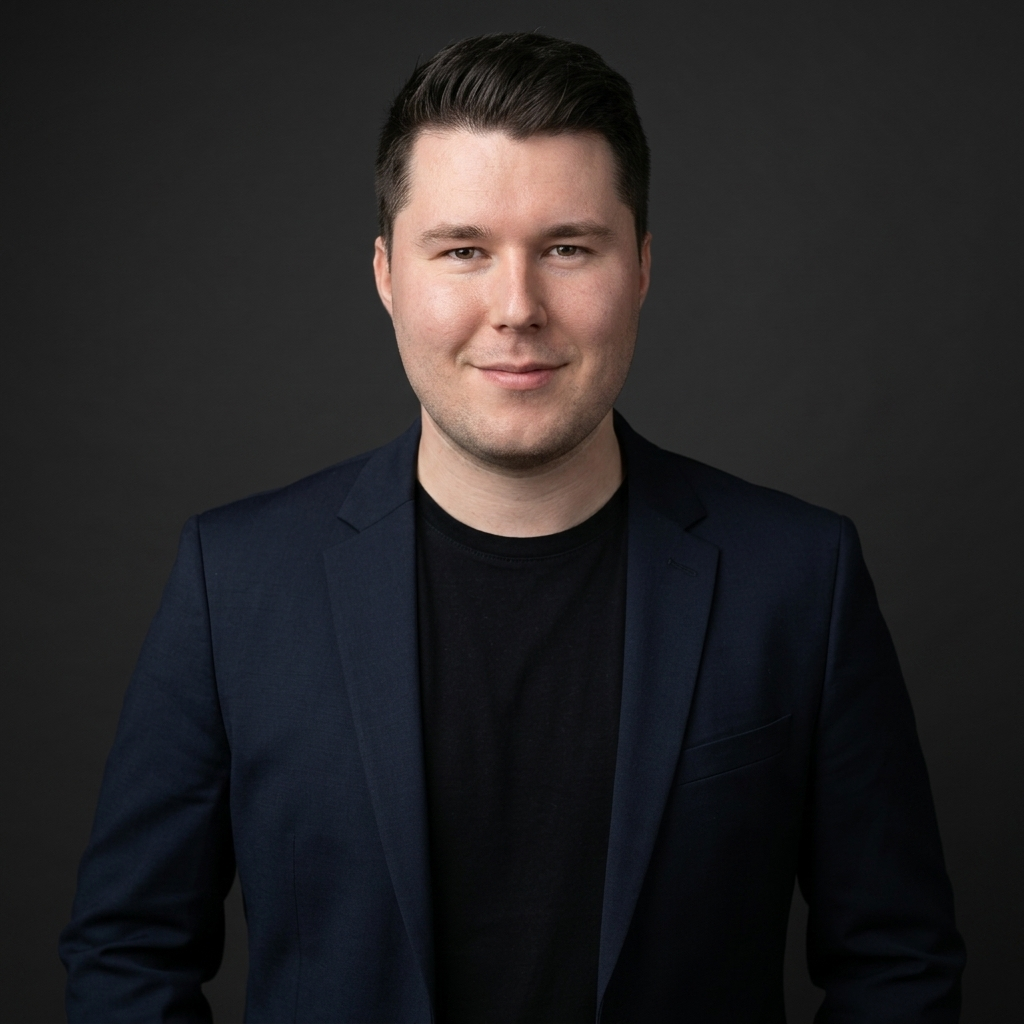
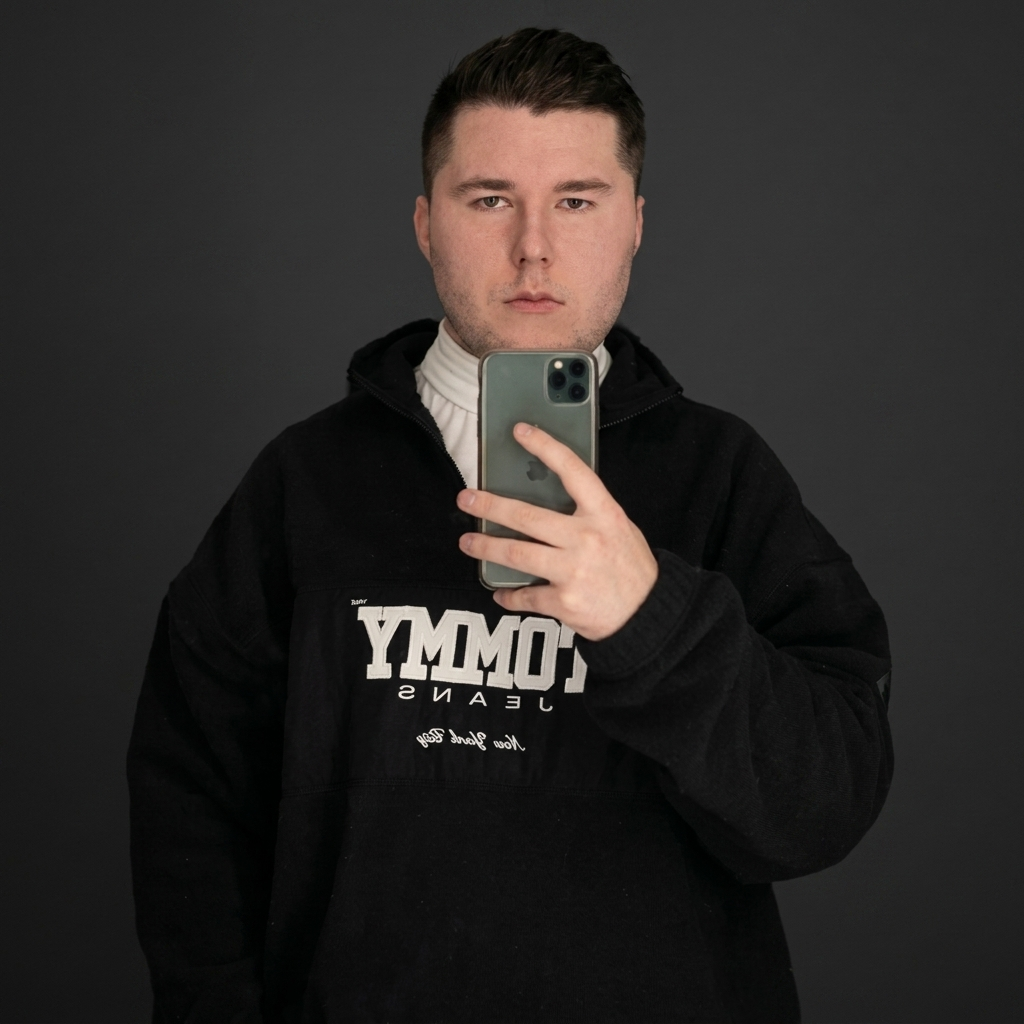
variant2_centered_portrait

diff --git a/src/components/AboutSection.tsx b/src/components/AboutSection.tsx
@@ -70,43 +70,45 @@ export const AboutSection: React.FC = () => {
 
           </div>
 
-          {/* Right Column: Visual Avatar Card */}
-          <div className="lg:col-span-5">
-            <div className="pg-card p-8 rounded-3xl relative overflow-hidden shadow-2xl space-y-6">
+          {/* Right Column: Centered Visual Avatar Portrait Card */}
+          <div className="lg:col-span-5 flex justify-center">
+            <div className="pg-card p-8 rounded-3xl relative overflow-hidden shadow-2xl space-y-6 w-full max-w-md text-center">
               
-              <div className="relative z-10 space-y-4">
-                <div className="w-24 h-24 rounded-2xl overflow-hidden border-2 border-ubuntuOrange-50 shadow-md">
+              <div className="relative z-10 space-y-5 flex flex-col items-center">
+                
+                {/* Beautifully Centered Portrait Image */}
+                <div className="w-36 h-36 sm:w-44 sm:h-44 rounded-full overflow-hidden border-4 border-ubuntuOrange-50 shadow-xl p-1 bg-ubuntuOrange-50/10">
                   <img 
                     src="/avatar.jpg" 
                     alt="Paweł Włodarczyk" 
-                    className="w-full h-full object-cover"
+                    className="w-full h-full object-cover rounded-full"
                   />
                 </div>
 
-                <div>
-                  <h3 className="text-xl font-bold" style={{ color: 'var(--pg-text-primary)' }}>Paweł Włodarczyk</h3>
-                  <p className="text-xs font-mono font-medium text-ubuntuOrange-50">Założyciel &amp; Lead Software Developer</p>
+                <div className="space-y-1">
+                  <h3 className="text-2xl font-bold tracking-tight" style={{ color: 'var(--pg-text-primary)' }}>Paweł Włodarczyk</h3>
+                  <p className="text-xs font-mono font-bold text-ubuntuOrange-50 uppercase tracking-wider">Założyciel &amp; Lead Software Developer</p>
                 </div>
 
-                <div className="space-y-2 pt-4 border-t text-xs" style={{ borderColor: 'var(--pg-border-subtle)', color: 'var(--pg-text-secondary)' }}>
-                  <div className="flex items-center gap-2">
+                <div className="w-full space-y-2.5 pt-4 border-t text-xs text-left" style={{ borderColor: 'var(--pg-border-subtle)', color: 'var(--pg-text-secondary)' }}>
+                  <div className="flex items-center gap-2.5">
                     <UserCheck className="w-4 h-4 text-ubuntuOrange-50 shrink-0" />
                     <span>Dojazd do firm: Gdańsk, Gdynia, Sopot, Elbląg</span>
                   </div>
-                  <div className="flex items-center gap-2">
+                  <div className="flex items-center gap-2.5">
                     <UserCheck className="w-4 h-4 text-ubuntuOrange-50 shrink-0" />
                     <span>Spotkania w kawiarni lub omówienie projektu online</span>
                   </div>
-                  <div className="flex items-center gap-2">
+                  <div className="flex items-center gap-2.5">
                     <UserCheck className="w-4 h-4 text-ubuntuOrange-50 shrink-0" />
                     <span>Inżynier Magister (Politechnika / AMW / WSB)</span>
                   </div>
                 </div>
 
-                <div className="pt-2">
+                <div className="w-full pt-2">
                   <a 
                     href="#kontakt"
-                    className="w-full block text-center py-3 rounded-xl bg-ubuntuOrange-50 hover:bg-ubuntuOrange-60 text-white font-bold text-xs shadow-md transition-all"
+                    className="w-full block text-center py-3.5 rounded-xl bg-ubuntuOrange-50 hover:bg-ubuntuOrange-60 text-white font-bold text-xs shadow-md transition-all"
                   >
                     Umów darmową konsultację
                   </a>
